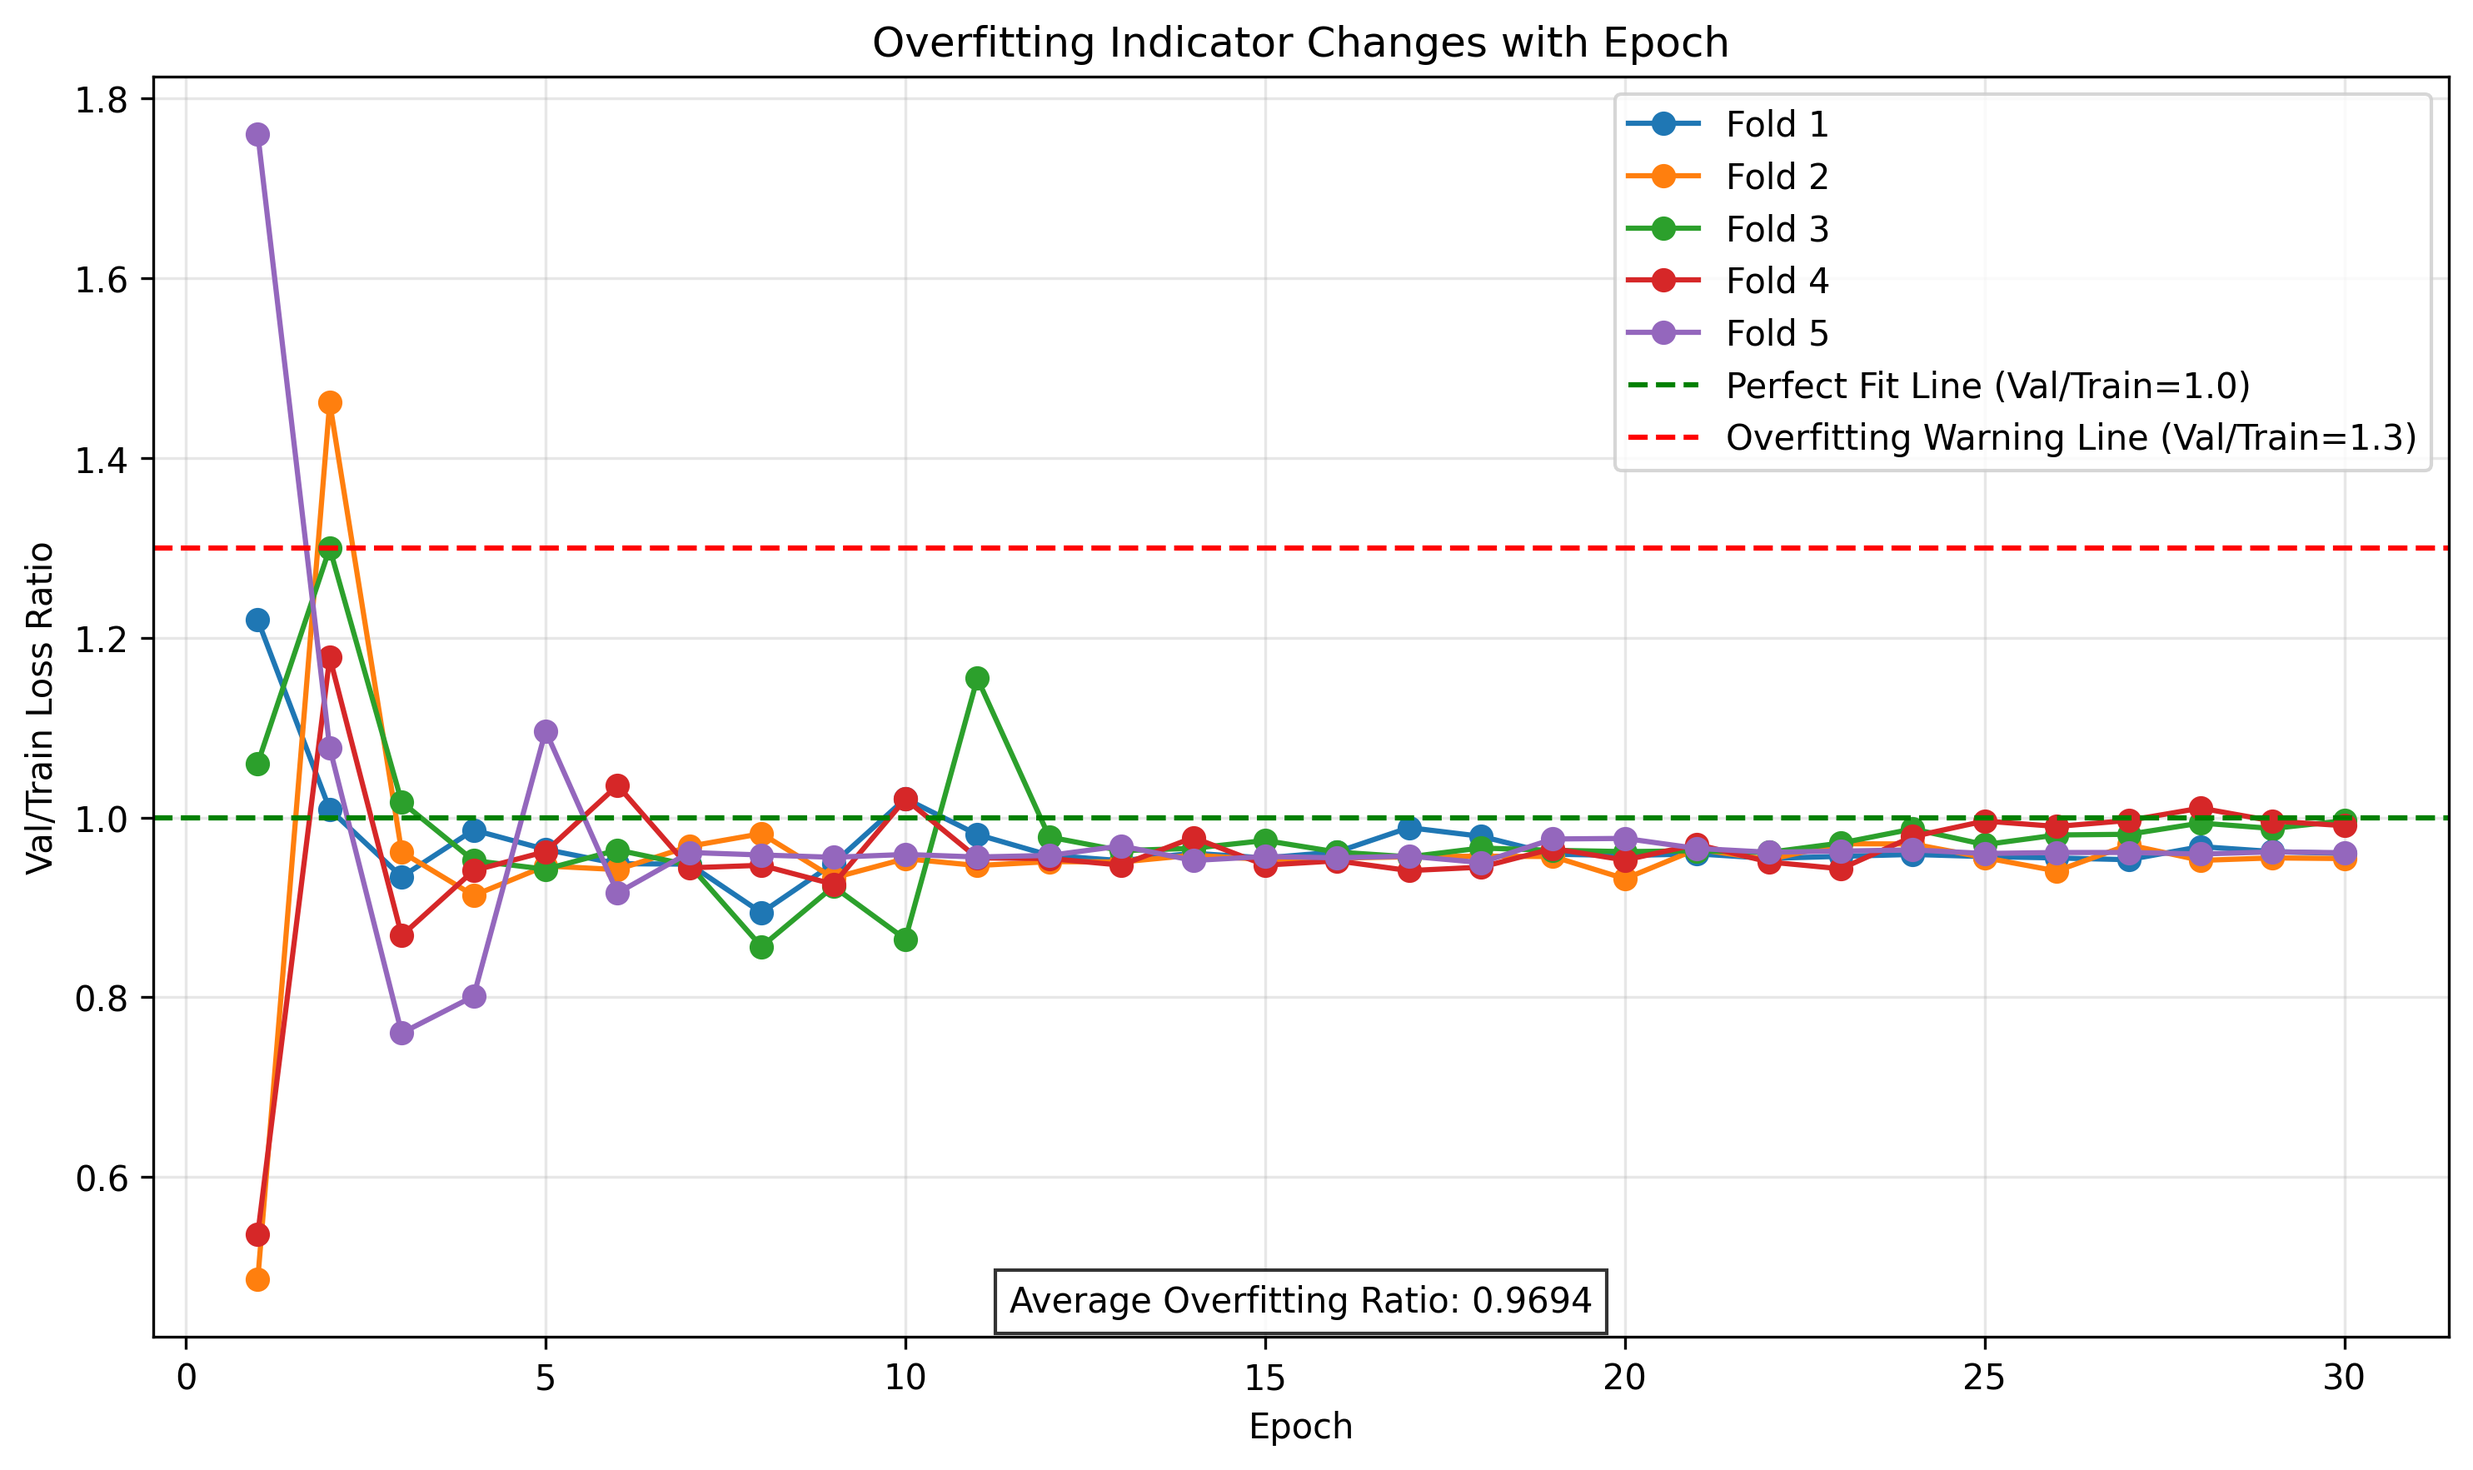
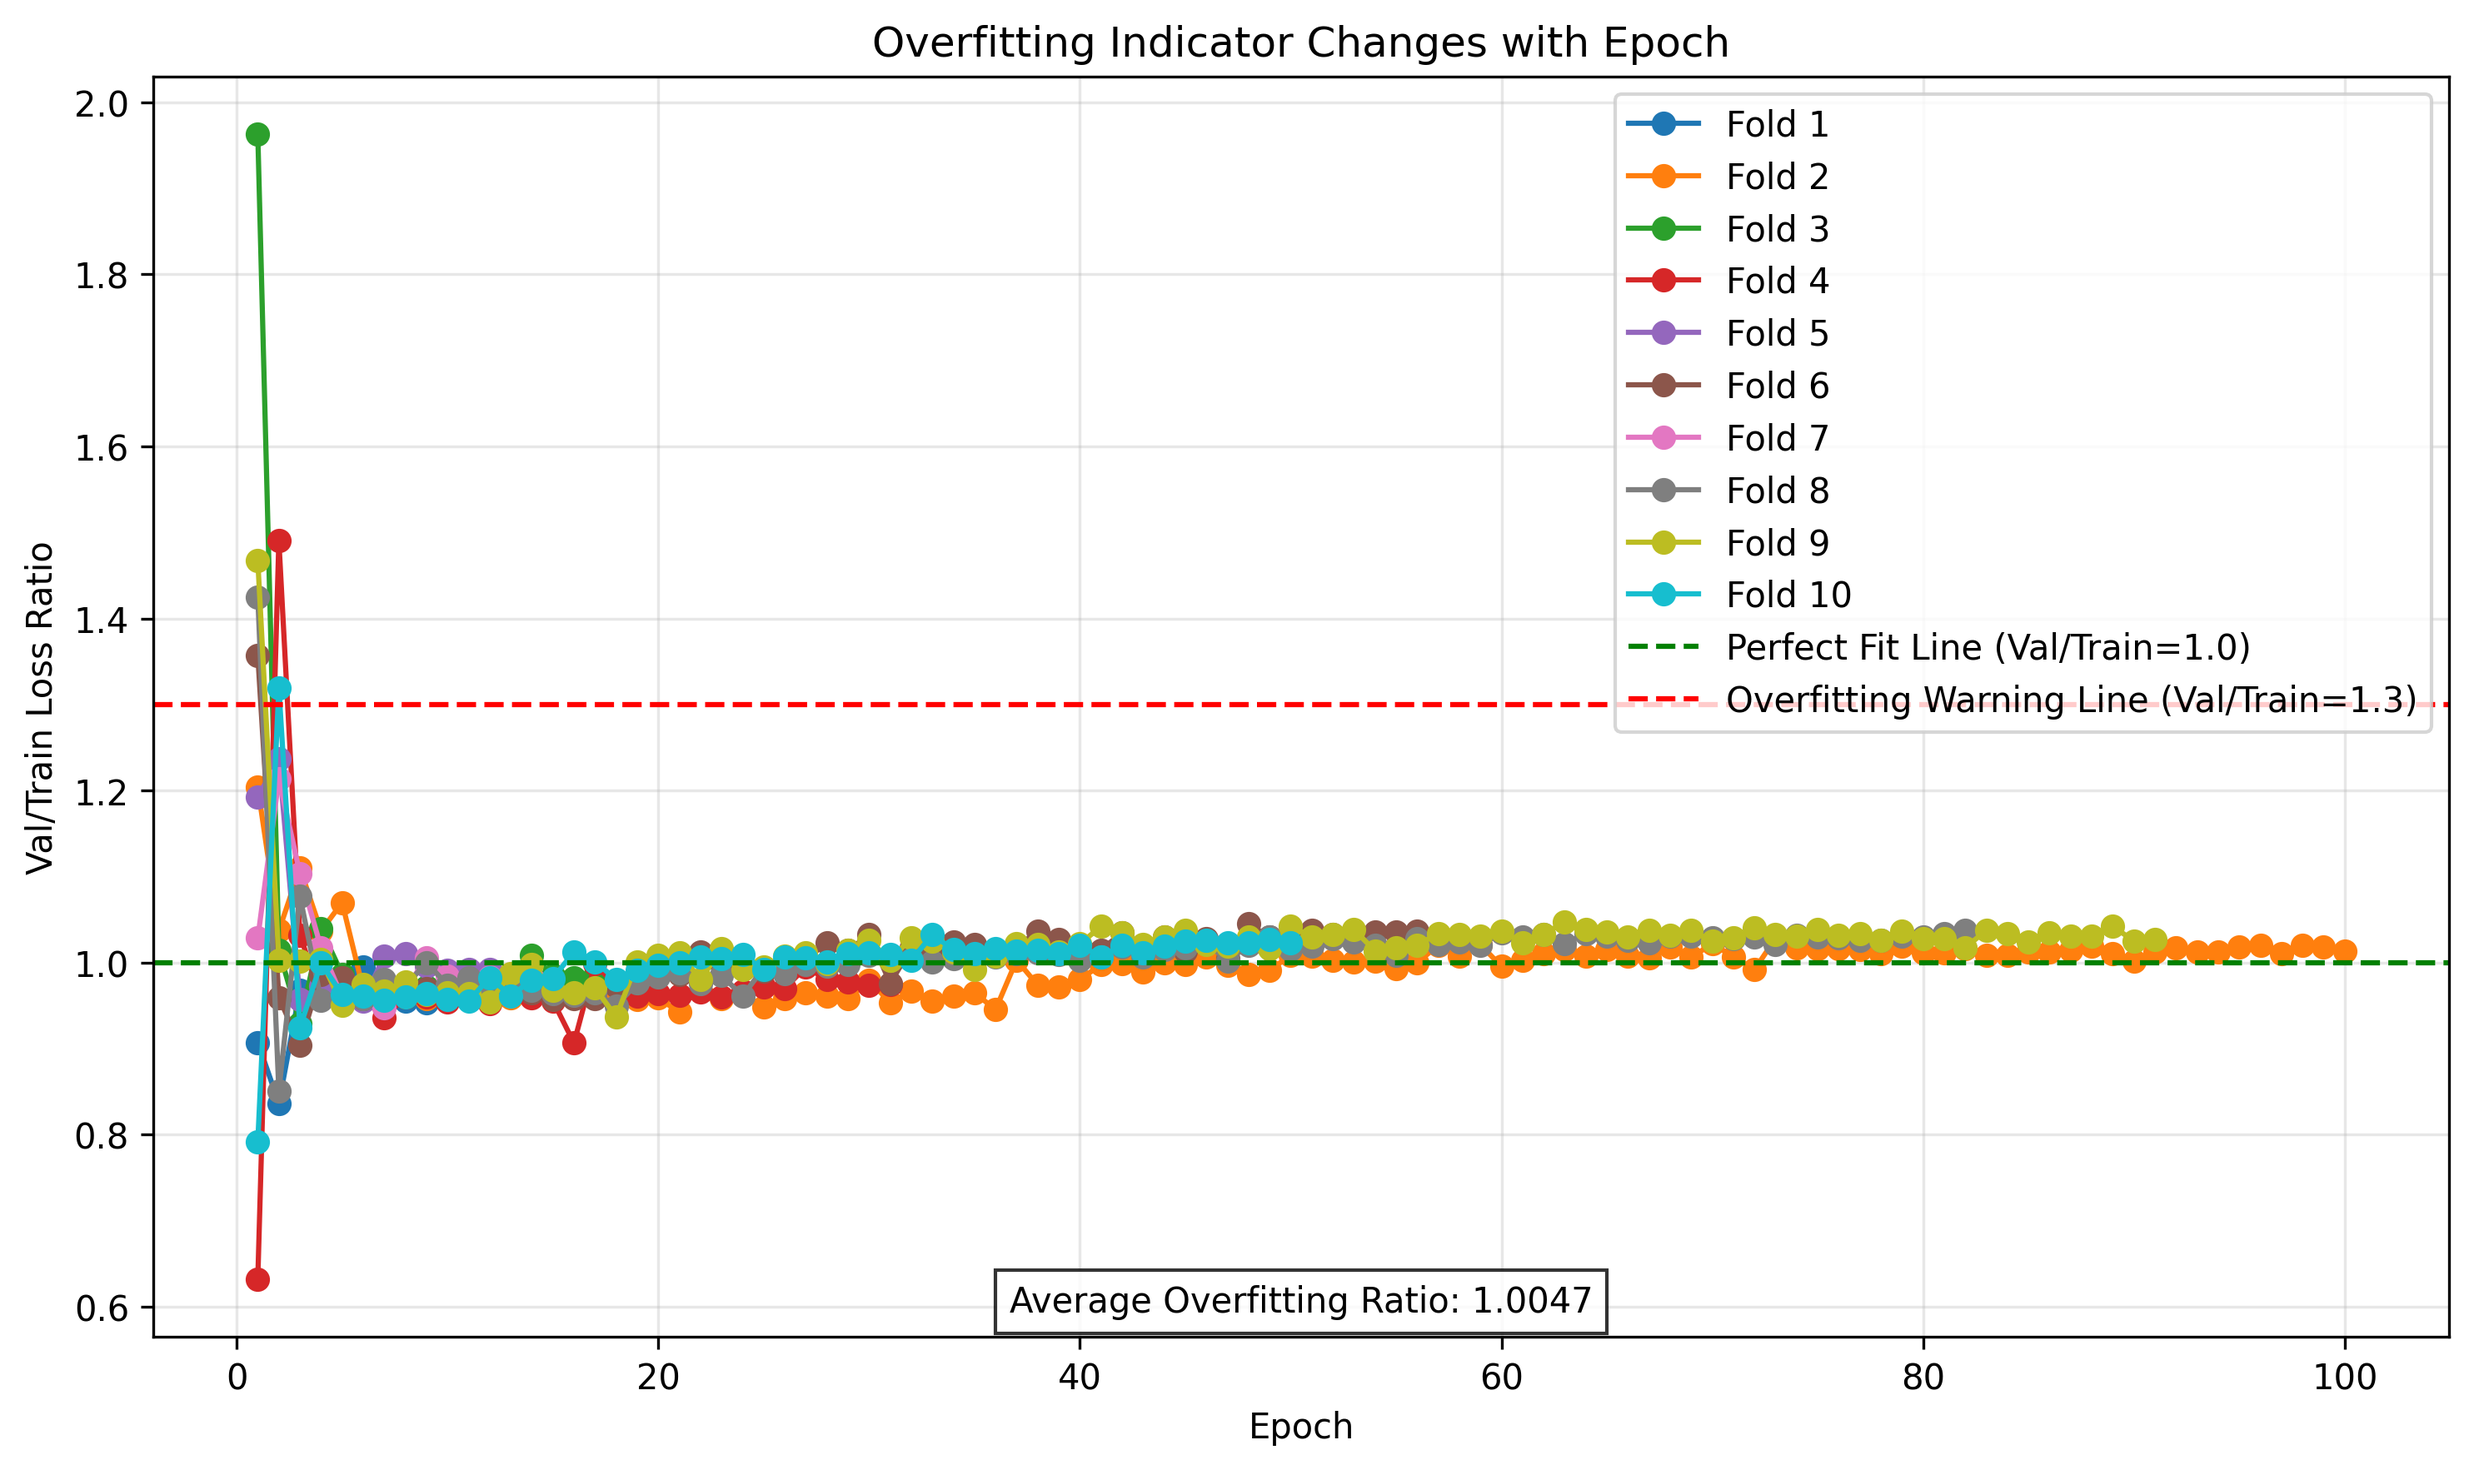
5th commit - 增加epoch及fold數量、微調圖形輸出

diff --git a/Transformer.py b/Transformer.py
@@ -15,12 +15,8 @@ from pytorch_lightning.callbacks import Callback, EarlyStopping, ModelCheckpoint
 from pytorch_forecasting import TimeSeriesDataSet, TemporalFusionTransformer, Baseline, QuantileLoss, NaNLabelEncoder
 from pytorch_forecasting.models.base_model import BaseModelWithCovariates
 from pytorch_forecasting.metrics import RMSE
-# from pytorch_forecasting.data import TorchNormalizer
 
-# from sklearn.preprocessing import MinMaxScaler, RobustScaler
-# from sklearn.model_selection import GroupKFold
 from sklearn.decomposition import PCA
-# from sklearn.feature_selection import SelectKBest, f_regression
 
 from multiprocessing import freeze_support
 import dill
@@ -34,23 +30,23 @@ import torch.serialization
 SEQ_LEN = 24                        # 編碼器序列長度
 PRED_LEN = 24                       # 預測長度（預測下一期）
 BATCH_SIZE = 128
-NUM_EPOCHS = 20
+NUM_EPOCHS = 100
 LR = 0.001
-N_SPLITS = 3                        # GroupKFold 的 fold 數
+N_SPLITS = 10                        # GroupKFold 的 fold 數
 DEVICE = "cuda" if torch.cuda.is_available() else "cpu"
 HIDDEN_SIZE = 256                   # 隱藏層大小
 ATTENTION_HEAD_SIZE = 16            # attention head 大小
-DROPOUT = 0.05                      # 隨機丟棄神經元機率
-HIDDEN_CONTINUOUS_SIZE = 256        # 連續特徵的隱藏層大小
+DROPOUT = 0.03                      # 隨機丟棄神經元機率
+HIDDEN_CONTINUOUS_SIZE = 128        # 連續特徵的隱藏層大小
 OUTPUT_SIZE = 1                     # 輸出大小 (僅預測下一期報酬率)
 LOG_INTERVAL = 10                   # 記錄間隔
 WEIGHT_DECAY = 1e-6                 # 降低權重衰減以允許更極端的權重值
-REDUCE_ON_PLATEAU_PATIENCE = 5      # 當驗證集 loss 不再下降時，減少學習率
+REDUCE_ON_PLATEAU_PATIENCE = 5      # 當驗證集的 loss 不再下降時，減少學習率
 LOSS_ALPHA = 0.4                    # RMSE 損失權重
 LOSS_BETA = 0.3                     # MAE 損失權重
 LOSS_GAMMA = 0.15                    # 極值鼓勵權重
 LOSS_DELTA = 0.15                    # 分布懲罰權重 (過於集中時會增加損失)
-EXTREME_THRESHOLD = 0.1             # 極值閾值
+EXTREME_THRESHOLD = 0.08             # 極值閾值
 
 
 # Trainer 超參數
@@ -294,7 +290,8 @@ df['股票代碼'] = df['股票代碼'].astype(str)
 
 # ============================= 自定義損失函數 =============================
 class ExtremePredictionLoss(RMSE):
-    """ 改進的損失函數，結合多個目標：
+    """ 
+    改進的損失函數，結合多個目標：
     1. RMSE 作為基礎
     2. MAE 損失（對極值更敏感）
     3. 極值鼓勵項（當預測接近實際極值時減少損失）
@@ -375,6 +372,7 @@ class ExtremePredictionLoss(RMSE):
 
 
 
+
 # ============================= 自訂 Callback 用於記錄 loss 與權重演變 =============================
 callback_list = []
 class RecordCallback(Callback):
@@ -426,25 +424,24 @@ class RecordCallback(Callback):
 
 
 
-# ============================= 檢查模型中所有組件的設備狀態 =============================
-def check_model_devices(model):
-    """ 檢查模型中所有組件的設備狀態, Debug 用 """
-    print("\n模型組件設備狀態:")
-    for name, param in model.named_parameters():
-        print(f"{name}: {param.device}")
-    for name, buffer in model.named_buffers():
-        print(f"{name} (buffer): {buffer.device}")
+# ============================= Debug: 檢查模型中所有組件的設備狀態 =============================
+# def check_model_devices(model):
+#     """ 檢查模型中所有組件的設備狀態, Debug 用 """
+#     print("\n模型組件設備狀態:")
+#     for name, param in model.named_parameters():
+#         print(f"{name}: {param.device}")
+#     for name, buffer in model.named_buffers():
+#         print(f"{name} (buffer): {buffer.device}")
 
 
 
 
 # ============================= 自訂 LightningModule 用於 TFT 模型 =============================
-# FIXME: 需要加入權重的提取方式
 class TFTLightningWrapper(pl.LightningModule):
     """
-    自訂 TFTLightningWrapper 類別
-    修復直接使用 TemporalFusionTransformer.from_dataset() 建構 LightningModule 類別的模型時
-    training_step 和 validation_step 中的 batch 類型不匹配問題
+    自訂 TFTLightningWrapper 類別，
+    修復直接使用 TemporalFusionTransformer.from_dataset() 建構 LightningModule 類別的模型時，
+    training_step 和 validation_step 中的 batch 類型不匹配問題。
     """
     def __init__(self, model: BaseModelWithCovariates) -> None:
         super().__init__()
@@ -561,8 +558,8 @@ def sharpe_ratio(returns):
 # ============================= 繪製 loss surface 上的權重軌跡 =============================
 def plot_best_loss_contour_trajectory(callback_list, all_val_losses, ax):
     """
-    繪製最佳 fold 的模型在降維後 loss surface 上的權重演化軌跡
-    使用 2D 等高線 + 漸變軌跡
+    繪製最佳 fold 的模型在降維後 loss surface 上的權重演化軌跡，
+    使用 2D 等高線圖 + 權重漸變軌跡線條 + 起點圓圈 + 終點X 來繪製。
     """
     best_fold_idx = np.argmin([val_loss[-1] for val_loss in all_val_losses])
     callback = callback_list[best_fold_idx]
@@ -574,14 +571,20 @@ def plot_best_loss_contour_trajectory(callback_list, all_val_losses, ax):
         print("尚未記錄任何模型權重或損失")
         return
 
-    # 降維
+    # 使用 PCA 降維
     pca = PCA(n_components=2)
     weights_2d = pca.fit_transform(weights)
 
+    # 計算坐標軸範圍，增加 20% 的邊距
+    x_min = weights_2d[:, 0].min() - 0.2 * abs(weights_2d[:, 0].max() - weights_2d[:, 0].min())
+    x_max = weights_2d[:, 0].max() + 0.2 * abs(weights_2d[:, 0].max() - weights_2d[:, 0].min())
+    y_min = weights_2d[:, 1].min() - 0.2 * abs(weights_2d[:, 1].max() - weights_2d[:, 1].min())
+    y_max = weights_2d[:, 1].max() + 0.2 * abs(weights_2d[:, 1].max() - weights_2d[:, 1].min())
+
     # RBF 插值來產生 loss contour
     rbf = Rbf(weights_2d[:, 0], weights_2d[:, 1], losses, function='multiquadric', smooth=0.1)
-    x = np.linspace(weights_2d[:, 0].min() - 1, weights_2d[:, 0].max() + 1, 100)
-    y = np.linspace(weights_2d[:, 1].min() - 1, weights_2d[:, 1].max() + 1, 100)
+    x = np.linspace(x_min, x_max, 100)
+    y = np.linspace(y_min, y_max, 100)
     X, Y = np.meshgrid(x, y)
     Z = rbf(X, Y)
 
@@ -608,13 +611,15 @@ def plot_best_loss_contour_trajectory(callback_list, all_val_losses, ax):
     ax.set_xlabel("Principal Component 1")
     ax.set_ylabel("Principal Component 2")
     ax.set_title(f"Best Fold Trajectory on Loss Contour (Fold {best_fold_idx + 1})")
+    ax.set_xlim(x_min, x_max)
+    ax.set_ylim(y_min, y_max)
     ax.grid(True, alpha=0.3)
 
 
 
 
 # ============================= GroupKFold 交叉驗證 =============================
-# # 以股票代碼作為分組依據
+# # 以股票代碼作為分組依據，但可能導致每個 fold 的數據表現相差過大，暫不使用
 # unique_companies = df['股票代碼'].unique()
 # gkf = GroupKFold(n_splits=N_SPLITS)
 # fold_results = []
@@ -629,7 +634,7 @@ def plot_best_loss_contour_trajectory(callback_list, all_val_losses, ax):
 
 
 # ============================= 時間感知型分組交叉驗證 =============================
-def time_aware_group_split(df, n_splits=5):
+def time_aware_group_split(df, n_splits=N_SPLITS):
     """ 時間感知的分組交叉驗證 """
     # 按時間排序並分段
     df = df.sort_values('年月')
@@ -699,11 +704,12 @@ def time_aware_group_split(df, n_splits=5):
 
 
 
-# ============================= 開始交叉驗證 =============================
+# ============================= 開始交叉驗證並訓練模型 =============================
 fold_results = []
 if __name__ == '__main__':
     freeze_support()
     
+    # 使用時間感知型的分組交叉驗證
     for fold, (train_comp_idx, val_comp_idx) in enumerate(time_aware_group_split(df, n_splits=N_SPLITS)):
         print(f"\n============ Fold {fold+1} ============")
         # 取得該 fold 的股票代碼
@@ -744,8 +750,6 @@ if __name__ == '__main__':
             categorical_encoders={"股票代碼": NaNLabelEncoder(add_nan=True)},  # 添加 NaNLabelEncoder
             allow_missing_timesteps=True,                   # 允許缺失的時間步
             add_relative_time_idx=True,                     # 添加相對時間索引
-
-
         )
         
         # 驗證集：使用與訓練集相同的設定，但預測期間為最後一段
@@ -758,7 +762,6 @@ if __name__ == '__main__':
 
         ## --------------------------- ##
         # 建立 TFT 模型
-        # FIXME: 使用 RMSE 作為 loss，可改用其他 loss 比如 QuantileLoss
         tft_model = TemporalFusionTransformer.from_dataset(
             training,
             learning_rate=LR,
@@ -868,10 +871,10 @@ if __name__ == '__main__':
         # FIXME: 使用驗證集來評估，但驗證集的資料量過少可能導致評估結果不準確
         try:
             print("\n開始評估...")
+            tft = tft.to(DEVICE)
             tft.model.eval()  # 設置模型為評估模式
             tft.model = tft.model.to(DEVICE)
-            tft = tft.to(DEVICE)
-            
+
             # 檢查模型設備狀態
             # check_model_devices(tft.model)
             
@@ -1041,11 +1044,11 @@ if __name__ == '__main__':
             ## -------------------------------------- ##
             
 
-            # Concatenate all predictions and targets
+            # 將所有預測和目標值拼接成一個大張量
             predictions = np.concatenate(all_predictions, axis=0)
             actuals = np.concatenate(all_targets, axis=0)
             
-            # Print shapes
+            # print 預測和目標值的形狀
             print(f"Predictions shape: {predictions.shape}")
             print(f"Actuals shape: {actuals.shape}")
 
@@ -1054,7 +1057,7 @@ if __name__ == '__main__':
                 predictions = predictions.squeeze(-1)  # 移除最後一個維度
                 print(f"調整後的 Predictions 形狀: {predictions.shape}")
             
-            # Calculate metrics
+            # 計算指標
             fold_rmse = rmse_metric(actuals, predictions)
             fold_sharpe = sharpe_ratio(predictions - actuals)
             
@@ -1066,11 +1069,11 @@ if __name__ == '__main__':
             print(f"\n評估過程發生錯誤: {str(e)}")
             print("\nDebug information:")
             
-            # Check model state
+            # 檢查模型狀態
             print("Model device:", next(tft.model.parameters()).device)
             print("Model mode:", "eval" if tft.model.training is False else "train")
             
-            # 檢查數據加載器細節
+            # 檢查數據加載器細節，Debug 用
             # print("\n數據加載器:")
             # for i, batch in enumerate(val_dataloader):
             #     if i >= 3:  # 只打印前3個 batch
@@ -1300,9 +1303,9 @@ ax4.grid(True, alpha=0.3)
 
 # 調整子圖之間的間距
 plt.tight_layout()
-plt.savefig('evaluation_results2.png', dpi=300, bbox_inches='tight')
+plt.savefig('evaluation_results.png', dpi=300, bbox_inches='tight')
 plt.close(fig)
-print("evaluation_results2.png 保存完成\n")
+print("evaluation_results.png 保存完成\n")
 
 # 單獨生成過擬合分析圖表
 if all_train_losses and all_val_losses:
